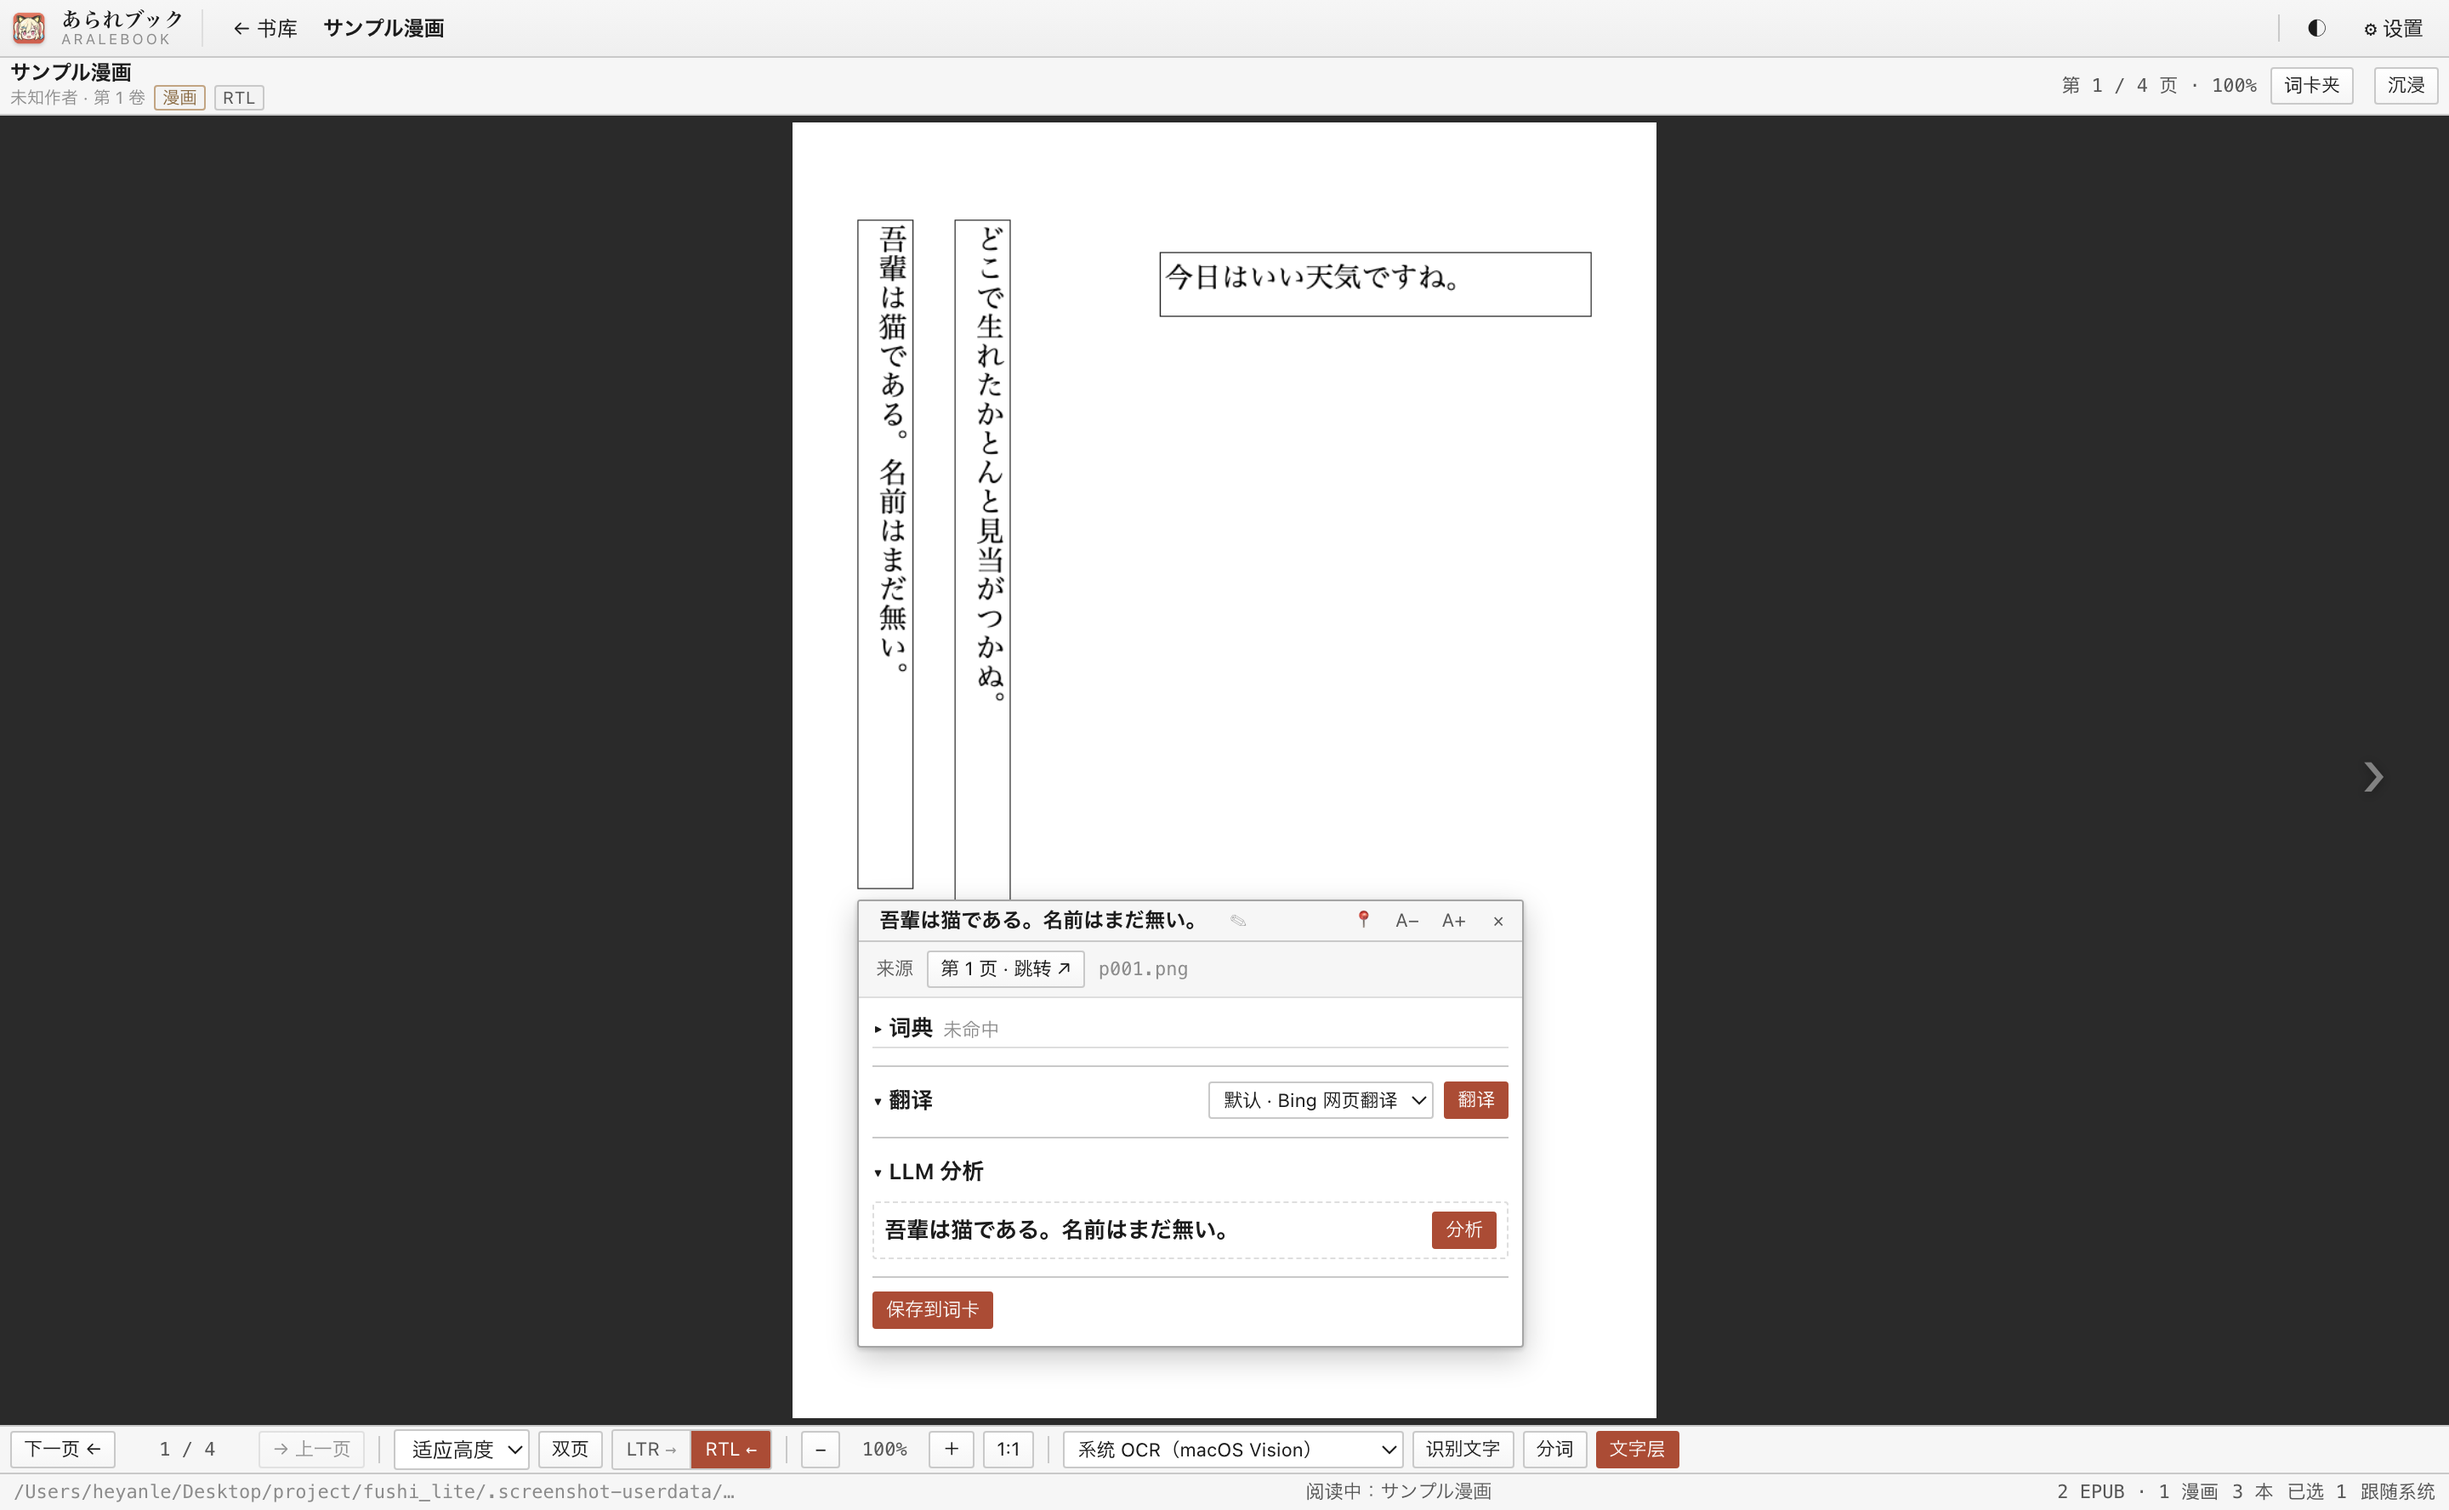
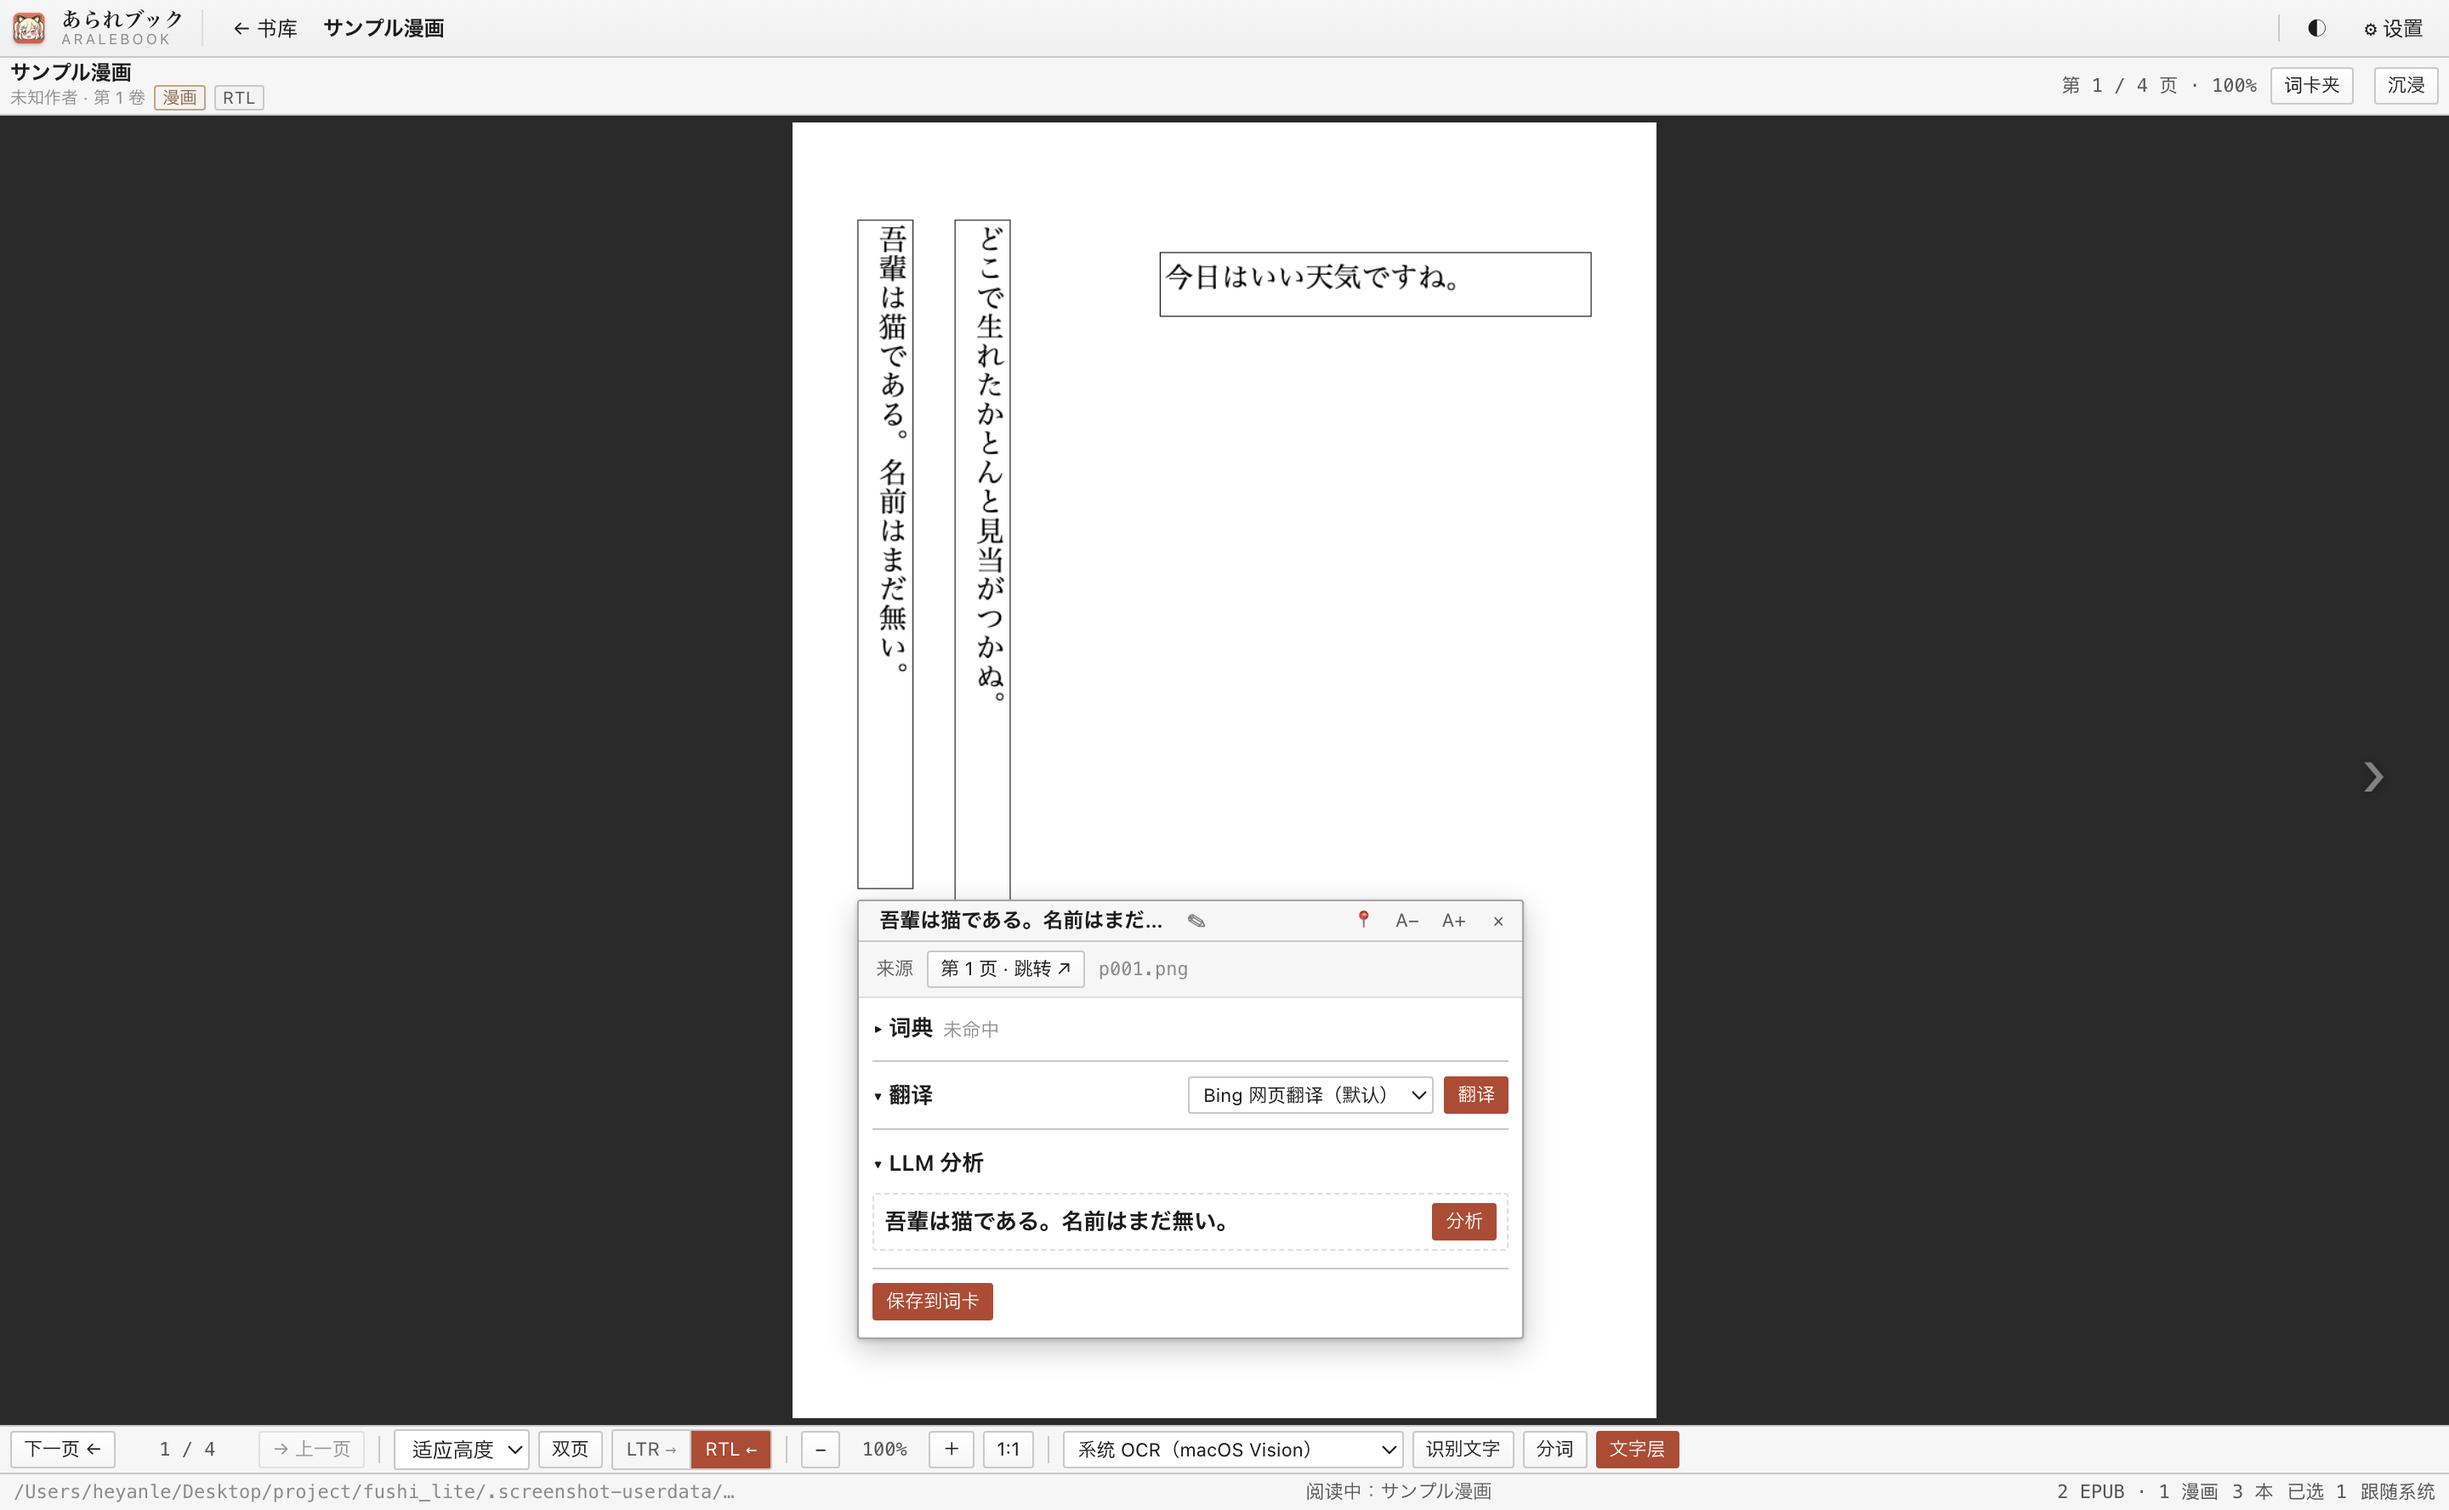
fix(wordcard): simplify section settings and provider selection

diff --git a/src/renderer/components/WordCardSettingsCard.tsx b/src/renderer/components/WordCardSettingsCard.tsx
@@ -32,53 +32,59 @@ export function WordCardSettingsCard({ llm, translation }: WordCardSettingsCardP
       <div className="settings-card-head">
         <h2 className="settings-card-title">词卡弹窗</h2>
       </div>
-      <p className="settings-hint">这里决定词卡上的默认配置。每张词卡仍可临时切换 LLM 或翻译引擎。</p>
+      <p className="settings-hint">这里决定词卡首次打开时的配置；每张词卡仍可临时选择其他引擎。</p>
 
-      <div className="settings-row">
-        <span className="settings-label">默认 LLM 分析</span>
-        <select
-          className="select settings-select-wide"
-          value={llmSettings?.activeProfileId ?? ''}
-          disabled={!llmSettings}
-          onChange={(event) => { if (llm) void llm.onUpdate({ activeProfileId: event.target.value || null }); }}
-        >
-          <option value="">不预选 LLM</option>
-          {(llmSettings?.profiles ?? []).map((profile) => (
-            <option key={profile.id} value={profile.id}>{profile.name}{profile.model ? ' · ' + profile.model : ' · 待设置模型'}</option>
-          ))}
-        </select>
+      <div className="wordcard-settings-section">
+        <h3>翻译栏配置</h3>
+        <div className="settings-row">
+          <span className="settings-label">默认翻译引擎</span>
+          <select
+            className="select settings-select-wide"
+            value={translationSettings?.activeProfileId ?? ''}
+            disabled={!translationSettings}
+            onChange={(event) => { if (translation) void translation.onUpdate({ activeProfileId: event.target.value || null }); }}
+          >
+            {(translationSettings?.profiles ?? []).map((profile) => (
+              <option key={profile.id} value={profile.id}>{profile.name}</option>
+            ))}
+          </select>
+        </div>
       </div>
 
-      <div className="settings-row">
-        <span className="settings-label">默认翻译</span>
-        <select
-          className="select settings-select-wide"
-          value={translationSettings?.activeProfileId ?? ''}
-          disabled={!translationSettings}
-          onChange={(event) => { if (translation) void translation.onUpdate({ activeProfileId: event.target.value || null }); }}
-        >
-          {(translationSettings?.profiles ?? []).map((profile) => (
-            <option key={profile.id} value={profile.id}>{profile.name}</option>
-          ))}
-        </select>
-      </div>
-
-      <div className="settings-row settings-row-block">
-        <div className="settings-row-main">
-          <span className="settings-row-title">LLM 分析提示词</span>
-          <textarea
-            className="input mono llm-prompt"
-            rows={8}
-            value={promptDraft ?? llmSettings?.prompt ?? ''}
+      <div className="wordcard-settings-section">
+        <h3>LLM 分析栏配置</h3>
+        <div className="settings-row">
+          <span className="settings-label">默认 LLM 配置</span>
+          <select
+            className="select settings-select-wide"
+            value={llmSettings?.activeProfileId ?? ''}
             disabled={!llmSettings}
-            onChange={(event) => setPromptDraft(event.target.value)}
-          />
-          <span className="settings-row-sub">{'{{word}}'} 表示词，{'{{context}}'} 表示查词时的上下文。</span>
-          <div className="ext-actions llm-actions">
-            <button type="button" className="btn btn-sm btn-primary" disabled={promptDraft === null || savingPrompt} onClick={() => void savePrompt()}>
-              {savingPrompt ? '保存中…' : '保存提示词'}
-            </button>
-            {promptDraft !== null && <button type="button" className="btn btn-sm" onClick={() => setPromptDraft(null)}>放弃修改</button>}
+            onChange={(event) => { if (llm) void llm.onUpdate({ activeProfileId: event.target.value || null }); }}
+          >
+            <option value="">不预选 LLM</option>
+            {(llmSettings?.profiles ?? []).map((profile) => (
+              <option key={profile.id} value={profile.id}>{profile.name}{profile.model ? ' · ' + profile.model : ' · 待设置模型'}</option>
+            ))}
+          </select>
+        </div>
+
+        <div className="settings-row settings-row-block">
+          <div className="settings-row-main">
+            <span className="settings-row-title">分析提示词</span>
+            <textarea
+              className="input mono llm-prompt"
+              rows={8}
+              value={promptDraft ?? llmSettings?.prompt ?? ''}
+              disabled={!llmSettings}
+              onChange={(event) => setPromptDraft(event.target.value)}
+            />
+            <span className="settings-row-sub">{'{{word}}'} 表示词，{'{{context}}'} 表示查词时的上下文。</span>
+            <div className="ext-actions llm-actions">
+              <button type="button" className="btn btn-sm btn-primary" disabled={promptDraft === null || savingPrompt} onClick={() => void savePrompt()}>
+                {savingPrompt ? '保存中…' : '保存提示词'}
+              </button>
+              {promptDraft !== null && <button type="button" className="btn btn-sm" onClick={() => setPromptDraft(null)}>放弃修改</button>}
+            </div>
           </div>
         </div>
       </div>

diff --git a/src/renderer/dict/WordCardPopup.tsx b/src/renderer/dict/WordCardPopup.tsx
@@ -295,8 +295,8 @@ export function WordCardPopup(props: WordCardPopupProps): JSX.Element {
   const toggleSection = (section: keyof typeof sectionOpen) =>
     setSectionOpen((current) => ({ ...current, [section]: !current[section] }));
 
-  const defaultLlmName = llmProfiles.find((profile) => profile.id === llmDefaultId)?.name ?? '未设置';
-  const defaultTranslationName = translationProfiles.find((profile) => profile.id === translationDefaultId)?.name ?? '未设置';
+  const selectedLlmId = llmProfileId ?? llmDefaultId ?? '';
+  const selectedTranslationId = translationProfileId ?? translationDefaultId ?? translationProfiles[0]?.id ?? '';
 
   return (
     <div
@@ -339,26 +339,15 @@ export function WordCardPopup(props: WordCardPopupProps): JSX.Element {
             }}
           />
         ) : (
-          <>
-            <button
-              type="button"
-              className="wordcard-word"
-              onClick={() => setEditingWord(true)}
-              title="点一下可以改这个词"
-            >
-              {word !== '' ? word : '（无词）'}
-            </button>
-            {/* 光靠「标题能点」没有任何提示——用户不会去点标题。给一个显式的编辑按钮。 */}
-            <button
-              type="button"
-              className="icon-btn wordcard-edit"
-              onClick={() => setEditingWord(true)}
-              title="编辑这个词"
-              aria-label="编辑这个词"
-            >
-              ✎
-            </button>
-          </>
+          <button
+            type="button"
+            className="wordcard-word"
+            onClick={() => setEditingWord(true)}
+            title="编辑这张词卡的词"
+            aria-label={`编辑词：${word !== '' ? word : '（无词）'}`}
+          >
+            <span className="wordcard-word-label">{word !== '' ? word : '（无词）'}</span>
+          </button>
         )}
 
         {selectionLength > 0 && (
@@ -476,15 +465,14 @@ export function WordCardPopup(props: WordCardPopupProps): JSX.Element {
             {translationProfiles.length > 0 && (
               <select
                 className="select select-sm"
-                value={translationProfileId ?? ''}
-                onChange={(event) =>
-                  onSelectTranslationProfile(event.target.value === '' ? null : event.target.value)
-                }
+                value={selectedTranslationId}
+                onChange={(event) => onSelectTranslationProfile(
+                  event.target.value === translationDefaultId ? null : event.target.value,
+                )}
                 title="这次使用哪个翻译引擎"
               >
-                <option value="">默认 · {defaultTranslationName}</option>
                 {translationProfiles.map((profile) => (
-                  <option key={profile.id} value={profile.id}>{profile.name}</option>
+                  <option key={profile.id} value={profile.id}>{profile.name}{profile.id === translationDefaultId ? '（默认）' : ''}</option>
                 ))}
               </select>
             )}
@@ -527,14 +515,14 @@ export function WordCardPopup(props: WordCardPopupProps): JSX.Element {
             {llmProfiles.length > 0 && (
               <select
                 className="select select-sm"
-                value={llmProfileId ?? ''}
-                onChange={(e) => onSelectLlmProfile(e.target.value === '' ? null : e.target.value)}
+                value={selectedLlmId}
+                onChange={(e) => onSelectLlmProfile(e.target.value === llmDefaultId ? null : e.target.value)}
                 title="这次用哪套 LLM 配置"
               >
-                <option value="">默认 · {defaultLlmName}</option>
+                {llmDefaultId === null && <option value="" disabled>选择 LLM 配置</option>}
                 {llmProfiles.map((profile) => (
                   <option key={profile.id} value={profile.id}>
-                    {profile.name}
+                    {profile.name}{profile.id === llmDefaultId ? '（默认）' : ''}
                   </option>
                 ))}
               </select>

diff --git a/src/renderer/styles/app.css b/src/renderer/styles/app.css
@@ -1924,7 +1924,20 @@ button[aria-disabled='true'] {
 
 .wordcard-location-muted { color: var(--text-faint); }
 
-.wordcard-section { border-bottom: 1px solid var(--border-soft); }
+.wordcard-settings-section { padding: 6px 0; }
+
+.wordcard-settings-section + .wordcard-settings-section {
+  border-top: 1px solid var(--border-soft);
+  margin-top: 7px;
+  padding-top: 12px;
+}
+
+.wordcard-settings-section h3 {
+  margin: 0 0 6px;
+  font-size: 12px;
+  font-weight: 700;
+  color: var(--text-dim);
+}
 
 .wordcard-section-toggle {
   border: 0;
@@ -2727,6 +2740,9 @@ button[aria-disabled='true'] {
 
 /* 顶部的词是**可点的按钮**（点一下变输入框），所以要把它做成不像按钮的样子。 */
 .wordcard-word {
+  display: inline-flex;
+  align-items: center;
+  gap: 5px;
   font-weight: 600;
   font-size: var(--ui-size);
   color: var(--text);
@@ -2735,11 +2751,13 @@ button[aria-disabled='true'] {
   border-radius: var(--radius);
   padding: 0 3px;
   max-width: 200px;
-  overflow: hidden;
-  text-overflow: ellipsis;
-  white-space: nowrap;
   text-align: left;
+  cursor: pointer;
 }
+
+.wordcard-word-label { min-width: 0; overflow: hidden; text-overflow: ellipsis; white-space: nowrap; }
+.wordcard-word::after { content: '✎'; opacity: 0.55; flex: none; }
+.wordcard-word:hover::after { opacity: 1; }
 
 .wordcard-word:hover {
   border-color: var(--border);
@@ -2808,10 +2826,9 @@ button[aria-disabled='true'] {
 /* ---- 翻译 / LLM 分析栏 ---- */
 .wordcard-translation,
 .wordcard-llm {
-  margin-top: 10px;
+  margin-top: 8px;
   padding-top: 8px;
-  /* 分栏之间要有看得见的分隔——之前用 --border-soft，在浅色主题下几乎看不见，
-     几栏内容糊成一片，用户分不清哪一栏是哪一栏。 */
+  /* 相邻分栏只画这一条顶线；词典不再额外画底线。 */
   border-top: 1px solid var(--border);
 }
 
@@ -3047,16 +3064,6 @@ button[aria-disabled='true'] {
 
 .comic-viewport.can-pan.is-panning:active {
   cursor: grabbing;
-}
-
-/* 顶部词旁边的编辑按钮：常驻但低调，hover 时才明显——不跟词本身抢注意力。 */
-.wordcard-edit {
-  opacity: 0.55;
-  flex: none;
-}
-
-.wordcard-edit:hover {
-  opacity: 1;
 }
 
 /* ---- 词卡里的逐词分析列表 ---- */
